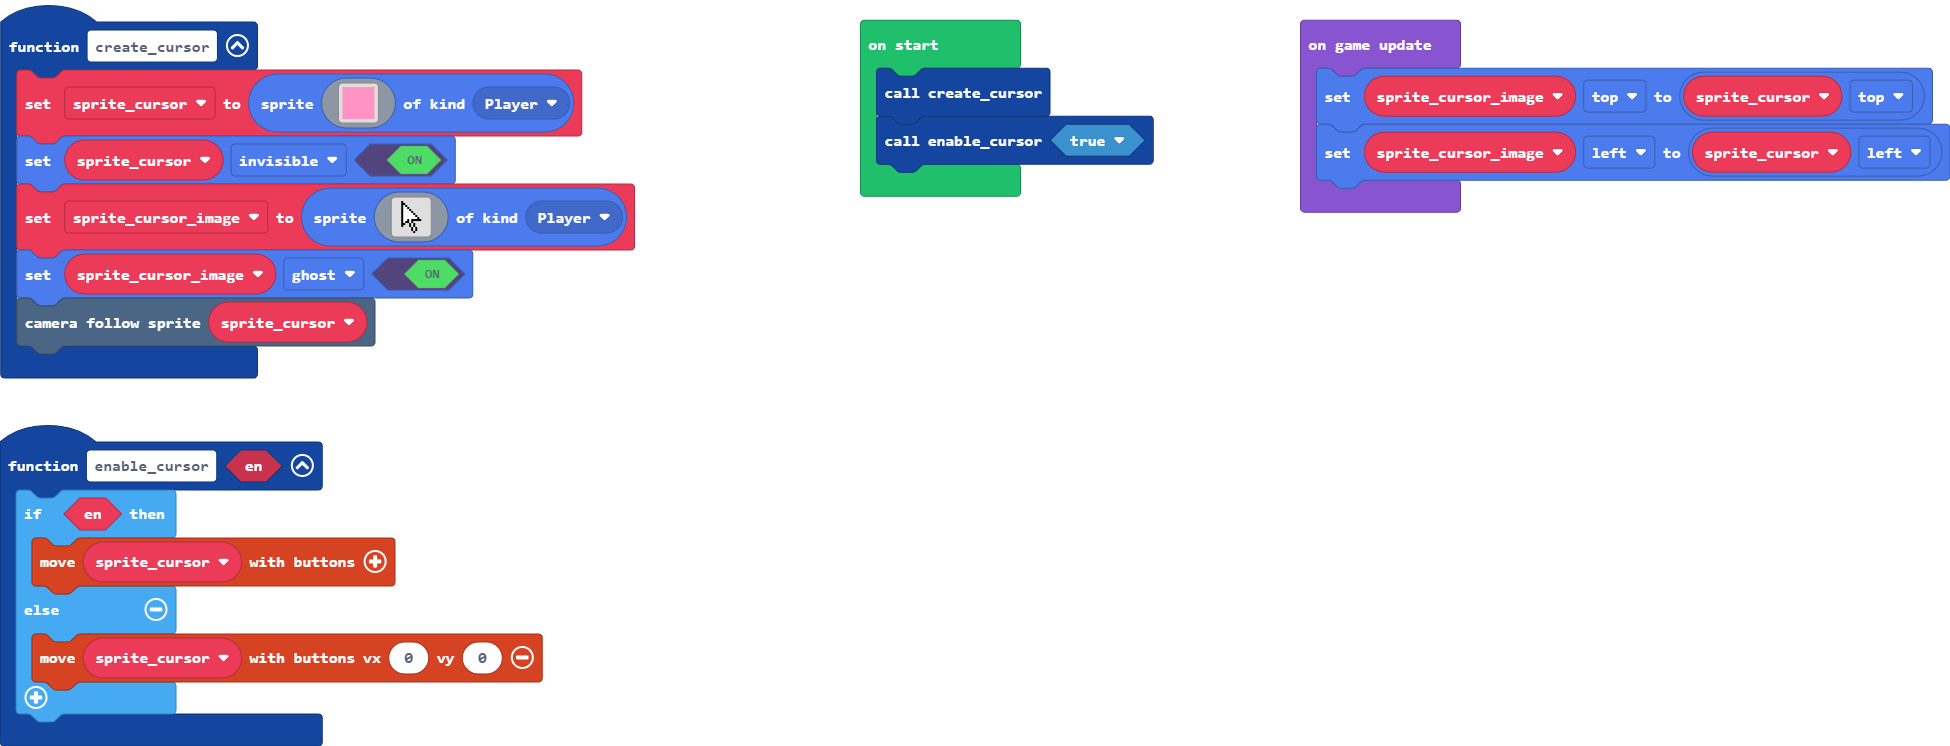
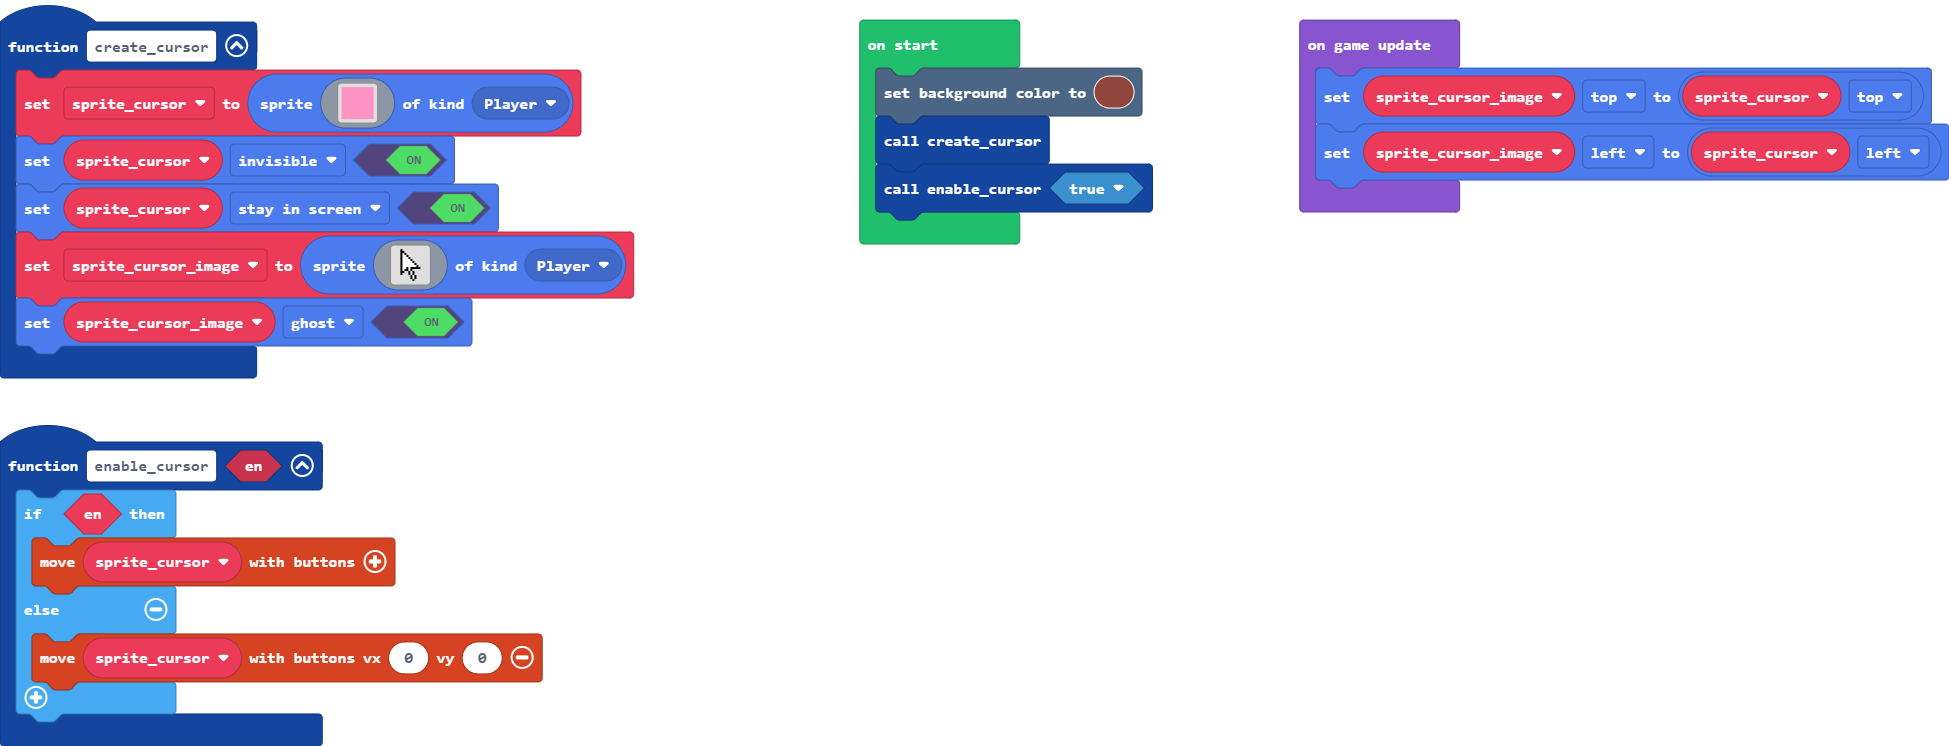
Empty

diff --git a/main.ts b/main.ts
@@ -1,9 +1,9 @@
 function create_cursor () {
     sprite_cursor = sprites.create(assets.image`cursor_pixel`, SpriteKind.Player)
     sprite_cursor.setFlag(SpriteFlag.Invisible, true)
+    sprite_cursor.setFlag(SpriteFlag.StayInScreen, true)
     sprite_cursor_image = sprites.create(assets.image`cursor_image`, SpriteKind.Player)
     sprite_cursor_image.setFlag(SpriteFlag.Ghost, true)
-    scene.cameraFollowSprite(sprite_cursor)
 }
 function enable_cursor (en: boolean) {
     if (en) {
@@ -14,6 +14,7 @@ function enable_cursor (en: boolean) {
 }
 let sprite_cursor_image: Sprite = null
 let sprite_cursor: Sprite = null
+scene.setBackgroundColor(14)
 create_cursor()
 enable_cursor(true)
 game.onUpdate(function () {
